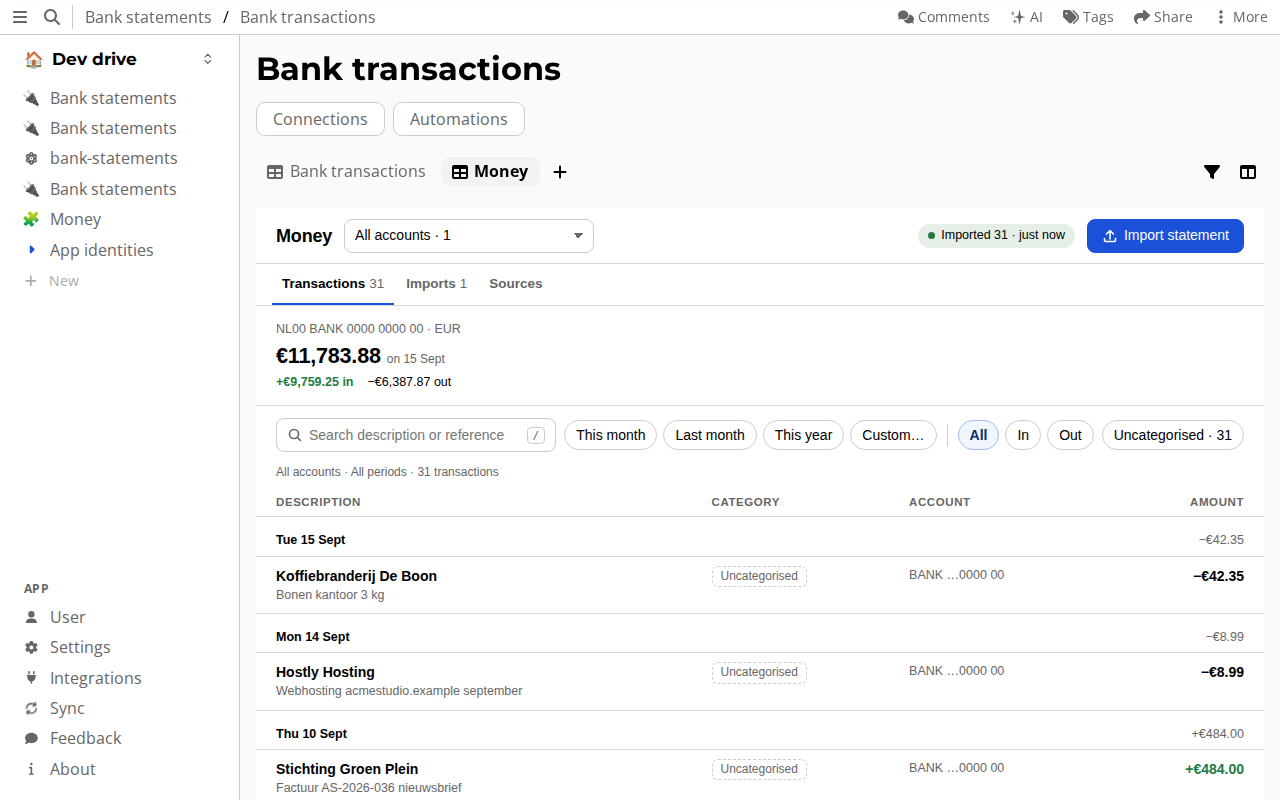
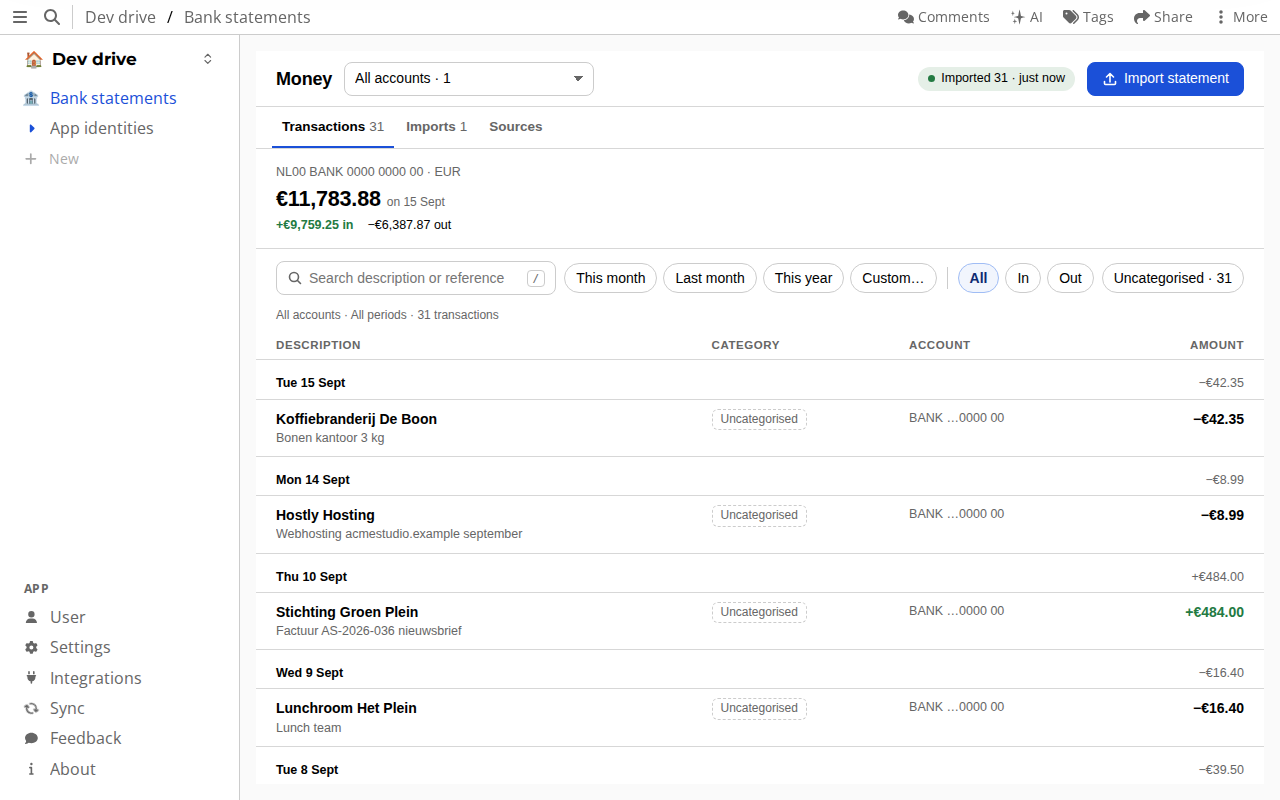
Retake the Money screenshot for 0.4.1: catalog install, own statement import (#49)

diff --git a/README.md b/README.md
@@ -76,7 +76,7 @@ on github.io.
   </tr>
   <tr>
     <td width="50%" valign="top">
-      <a href="docs/screenshots/money.png"><img src="docs/screenshots/money.png" alt="The Money drive app as a view of a Bank transactions table: closing balance, money in and out, and a ledger of an invented company's transactions"></a>
+      <a href="docs/screenshots/money.png"><img src="docs/screenshots/money.png" alt="The Money drive app, installed from Drive apps, after importing a statement itself: Transactions, Imports and Sources tabs, the account's closing balance with money in and out, and a ledger of an invented company's 31 transactions"></a>
       <br><b>🏦 Bank statements and Money</b>: MT940 and camt.053 imports, read as a ledger.
     </td>
     <td width="50%" valign="top">
@@ -86,13 +86,15 @@ on github.io.
   </tr>
 </table>
 
-Calendar, GitHub issues, Clockify and Notion were taken on 2026-10-02 against
-atomic-server pin `a12b74a`, at 1280×800 in the light theme, with invented
-data only, on the user-testing sample accounts
+Calendar, GitHub issues, Clockify, Notion and Money were taken on 2026-10-02
+against atomic-server pin `a12b74a`, at 1280×800 in the light theme, with
+invented data only. Calendar, GitHub issues, Clockify and Notion run on the
+user-testing sample accounts
 ([`usertest/sample-data/`](usertest/sample-data/README.md); hence the yellow
-"Sample data" line) at the app versions in the table below. Money (taken
-2026-10-01, to be retaken once #295 lands) uses the invented Acme Studio statement
-in `integrations/money/fixtures/usertest/`, and Pets the mock proxy's static
+"Sample data" line) at the app versions in the table below. Money (0.4.1) is
+installed from Drive apps and imports the invented Acme Studio August
+statement in `integrations/money/fixtures/usertest/` through its own "Import
+statement", with no importer set up; Pets uses the mock proxy's static
 fixture. The Notion shot shows the app's status view only. The optional
 [`notion-table.png`](docs/screenshots/notion-table.png) (taken with
 `... screenshots.mjs notion-table`) shows the sample's table, where the
@@ -104,16 +106,16 @@ To retake them, set up the pinned atomic-server as in
 `node integrations/tooling/screenshots.mjs [pets calendar issue-tracker money notion timesheets]`.
 The checklist is in [#49](https://github.com/ontola/atomic-plugins/issues/49).
 
-| App                              | What it does (declared)                                                                                                                                                                                                                                                        | Status                                                                                                                                                                                                                                                                                                                                                                | Code                                                             |
-| -------------------------------- | ------------------------------------------------------------------------------------------------------------------------------------------------------------------------------------------------------------------------------------------------------------------------------ | --------------------------------------------------------------------------------------------------------------------------------------------------------------------------------------------------------------------------------------------------------------------------------------------------------------------------------------------------------------------- | ---------------------------------------------------------------- |
-| 🐾 **Pets**                      | A demo: connect the Pets demo provider and import its five pets into a table.                                                                                                                                                                                                  | Enabled in the catalog (0.1.2). Installs from Drive apps. Host E2E against the mock proxy, including an update from an older version.                                                                                                                                                                                                                                 | [`integrations/pets/`](integrations/pets/)                       |
-| 🗓 **Google Calendar**           | Imports one Google calendar's single (non-recurring) events, up to 25,000 per scan, and sends reviewed edits of five fields back with `If-Match`. No creates or deletes in Google.                                                                                             | Published (0.3.1), `enabled: false`. Rows are the shared `event-v1` class, and it can sync a hand-made `event-v1` table. Host E2E against the mock proxy. No live run of the drive app against Google yet.                                                                                                                                                            | [`integrations/calendar/`](integrations/calendar/)               |
-| 🐙 **GitHub issues**             | Keeps one repository's issues (title, body, Todo/Doing/Done, comments) on a board, two-way. Every write to GitHub is held for review.                                                                                                                                          | Published (0.3.1), `enabled: false`. Rows are the shared `issue-v1` class, and it can sync a hand-made `issue-v1` table. Host E2E against the mock proxy. No live run of the drive app against GitHub yet.                                                                                                                                                            | [`integrations/issue-tracker/`](integrations/issue-tracker/)     |
+| App                              | What it does (declared)                                                                                                                                                                                                                                                        | Status                                                                                                                                                                                                                                                                                                                                                   | Code                                                             |
+| -------------------------------- | ------------------------------------------------------------------------------------------------------------------------------------------------------------------------------------------------------------------------------------------------------------------------------ | -------------------------------------------------------------------------------------------------------------------------------------------------------------------------------------------------------------------------------------------------------------------------------------------------------------------------------------------------------- | ---------------------------------------------------------------- |
+| 🐾 **Pets**                      | A demo: connect the Pets demo provider and import its five pets into a table.                                                                                                                                                                                                  | Enabled in the catalog (0.1.2). Installs from Drive apps. Host E2E against the mock proxy, including an update from an older version.                                                                                                                                                                                                                    | [`integrations/pets/`](integrations/pets/)                       |
+| 🗓 **Google Calendar**           | Imports one Google calendar's single (non-recurring) events, up to 25,000 per scan, and sends reviewed edits of five fields back with `If-Match`. No creates or deletes in Google.                                                                                             | Published (0.3.1), `enabled: false`. Rows are the shared `event-v1` class, and it can sync a hand-made `event-v1` table. Host E2E against the mock proxy. No live run of the drive app against Google yet.                                                                                                                                               | [`integrations/calendar/`](integrations/calendar/)               |
+| 🐙 **GitHub issues**             | Keeps one repository's issues (title, body, Todo/Doing/Done, comments) on a board, two-way. Every write to GitHub is held for review.                                                                                                                                          | Published (0.3.1), `enabled: false`. Rows are the shared `issue-v1` class, and it can sync a hand-made `issue-v1` table. Host E2E against the mock proxy. No live run of the drive app against GitHub yet.                                                                                                                                               | [`integrations/issue-tracker/`](integrations/issue-tracker/)     |
 | 🏦 **Bank statements** and Money | The importer reads MT940 (up to 512 KB) and camt.053 (up to 5 MB) files, at most 500 transactions per file, and writes nothing before the host's review. The Money app shows the result as a ledger per account and currency, with your own category and note per transaction. | Money app: published (0.4.1), `enabled: false`. A catalog install imports statements itself into rows of the shared `bank-transaction-v1` class, and lists rows missing a required field as incomplete. The importer still works as a second way in (set up from a release published to the server by hand). Tested with synthetic statement files only. | [`integrations/money/`](integrations/money/)                     |
-| ⏱ **Clockify**                  | Brings your Clockify time entries into a week view and a table, and sends reviewed edits back.                                                                                                                                                                                 | Published (0.6.2), `enabled: false`. Rows are the shared `time-entry-v1` class, and it can sync a hand-made `time-entry-v1` table. Write-back, range edits and conflicts are declared, mock-tested only. Host E2E against the mock proxy. No live run ([#123](https://github.com/ontola/atomic-plugins/issues/123) is open). | [`integrations/timesheets/`](integrations/timesheets/)           |
-| 📓 **Notion**                    | Syncs the rows of shared Notion databases into one table, with select, status and multi-select options as the host's own select columns, and sends reviewed edits to existing pages back. A small status view shows the sync. No page creation or deletes.                     | Published (0.4.0), `enabled: false`. Host E2E against the mock proxy. No live run of the writes ([#8](https://github.com/ontola/atomic-plugins/issues/8) is open).                                                                                                                                                           | [`integrations/notion/`](integrations/notion/)                   |
-| ✅ **Todoist**                   | Imports the active tasks of a Todoist account into an `issue-v1` table, read-only. A task that left the active list is looked up once: a completed one is closed. Nothing is sent to Todoist.                                                                                  | Published (0.1.1), `enabled: false`. Host E2E on a synthetic fixture; nothing checked against real Todoist ([#99](https://github.com/ontola/atomic-plugins/issues/99), [#46](https://github.com/ontola/atomic-plugins/issues/46)).                                                                                                                                    | [`integrations/issue-tracker/`](integrations/issue-tracker/)     |
-| 🐦 **Moneybird**                 | Imports the contacts of one Moneybird administration, read-only.                                                                                                                                                                                                               | Published (0.1.1), `enabled: false`. Host E2E on a synthetic fixture; nothing checked against real Moneybird ([#102](https://github.com/ontola/atomic-plugins/issues/102)).                                                                                                                                                                                           | [`integrations/money/moneybird/`](integrations/money/moneybird/) |
+| ⏱ **Clockify**                  | Brings your Clockify time entries into a week view and a table, and sends reviewed edits back.                                                                                                                                                                                 | Published (0.6.2), `enabled: false`. Rows are the shared `time-entry-v1` class, and it can sync a hand-made `time-entry-v1` table. Write-back, range edits and conflicts are declared, mock-tested only. Host E2E against the mock proxy. No live run ([#123](https://github.com/ontola/atomic-plugins/issues/123) is open).                             | [`integrations/timesheets/`](integrations/timesheets/)           |
+| 📓 **Notion**                    | Syncs the rows of shared Notion databases into one table, with select, status and multi-select options as the host's own select columns, and sends reviewed edits to existing pages back. A small status view shows the sync. No page creation or deletes.                     | Published (0.4.0), `enabled: false`. Host E2E against the mock proxy. No live run of the writes ([#8](https://github.com/ontola/atomic-plugins/issues/8) is open).                                                                                                                                                                                       | [`integrations/notion/`](integrations/notion/)                   |
+| ✅ **Todoist**                   | Imports the active tasks of a Todoist account into an `issue-v1` table, read-only. A task that left the active list is looked up once: a completed one is closed. Nothing is sent to Todoist.                                                                                  | Published (0.1.1), `enabled: false`. Host E2E on a synthetic fixture; nothing checked against real Todoist ([#99](https://github.com/ontola/atomic-plugins/issues/99), [#46](https://github.com/ontola/atomic-plugins/issues/46)).                                                                                                                       | [`integrations/issue-tracker/`](integrations/issue-tracker/)     |
+| 🐦 **Moneybird**                 | Imports the contacts of one Moneybird administration, read-only.                                                                                                                                                                                                               | Published (0.1.1), `enabled: false`. Host E2E on a synthetic fixture; nothing checked against real Moneybird ([#102](https://github.com/ontola/atomic-plugins/issues/102)).                                                                                                                                                                              | [`integrations/money/moneybird/`](integrations/money/moneybird/) |
 
 ### Importers
 
